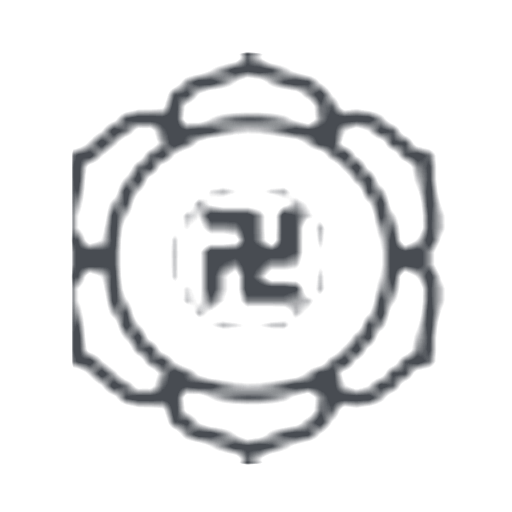
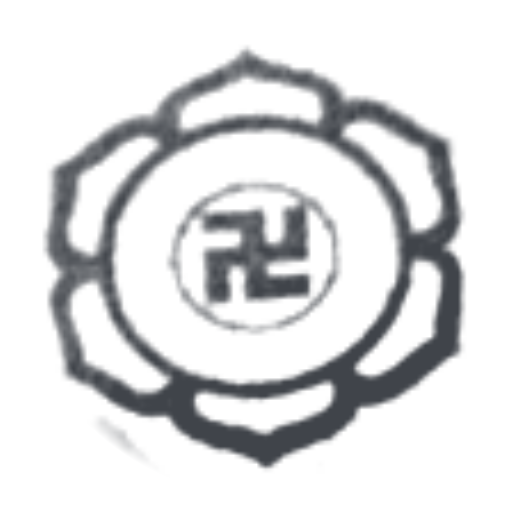
feat: 온전한 육엽 연꽃잎 로고 교체, 탑돌이 매 바퀴마다 정중한 반배(3.8초) 및 마무리 회향 반배 연출 구현

Changed region(s): [[0.0625, 0.0938, 0.9062, 0.9375], [0.3125, 0.3438, 0.6875, 0.6562]]

diff --git a/temple3d.js b/temple3d.js
@@ -49,7 +49,10 @@ class Bomunsa3D {
     this.pagodaIsRunning = false;
     this.isPagodaBowing = false;
     this.pagodaBowElapsed = 0;
-    this.pagodaBowDuration = 2.4;
+    this.pagodaBowDuration = 3.8; // [요청 반영: 반배 타임을 3.8초로 넉넉히 늘려 경건한 반배 동작이 확실히 눈에 띄도록 설정]
+    this.pagodaStep = 0;
+    this.pagodaNextStep = 1;
+    this.pagodaBowIsFinal = false;
     this.footprints = [];
     this.lastFootprintDist = 0;
     this.footprintStepSide = 1;
@@ -2214,24 +2217,20 @@ class Bomunsa3D {
     }
   }
 
-  startPagodaSpin() {
-    this.currentMode = 'pagoda_spin';
-    this.pagodaAngle = Math.PI / 2; // 남쪽 (z + 6.2) 황금 연꽃 표식
-    this.pagodaTotalAngle = 0;
-    this.pagodaRoundsCompleted = 0;
-    this.clearFootprints();
-
-    // [요청 반영: 1단계 - 탑돌이 시작 전 탑을 향해 정성껏 합장 반배 올리기]
+  // [사용자 요청 반영: 한 바퀴 돌 때마다 남쪽에서 멈춰 탑을 향해 반배, 다 돌고 나서 마무리 반배]
+  triggerPagodaBow(roundTitle, roundDesc, nextStep, isFinal = false) {
     this.isPagodaBowing = true;
     this.pagodaBowElapsed = 0;
     this.pagodaIsRunning = false;
+    this.pagodaNextStep = nextStep;
+    this.pagodaBowIsFinal = isFinal;
 
-    // 남쪽 출발 표식에 캐릭터 위치 및 탑(북쪽)을 마주보도록 정렬
+    // 남쪽 출발 표식에 캐릭터 위치 및 묘보탑(북쪽)을 정면으로 마주보도록 정렬
     const px = this.pagodaPos.x;
     const pz = this.pagodaPos.z + this.pagodaRadius;
     this.playerPos.set(px, 0, pz);
     this.characterGroup.position.copy(this.playerPos);
-    this.characterGroup.rotation.y = Math.PI; // 묘보탑(북쪽)을 정면으로 경건하게 마주봄
+    this.characterGroup.rotation.y = Math.PI; // 묘보탑(북쪽) 정면 마주봄
 
     // 사지 초기 정자세 복원
     if (this.charLimbs) {
@@ -2245,14 +2244,31 @@ class Bomunsa3D {
       this.charLimbs.gassho.rotation.set(0, 0, 0);
     }
 
-    if (window.templeAudio) window.templeAudio.playSingleMoktak();
+    if (isFinal) {
+      if (window.templeAudio) window.templeAudio.playSingingBowl(216, 9.0);
+    } else {
+      if (window.templeAudio) window.templeAudio.playSingleMoktak();
+    }
+
     if (window.onPagodaRoundUpdate) {
-      window.onPagodaRoundUpdate('합장 반배(半拜) 올리기 🙏', '정성을 다해 탑을 향해 반배를 올리며 탑돌이를 시작합니다.', false, true);
+      window.onPagodaRoundUpdate(roundTitle, roundDesc, false, true);
     }
   }
 
+  startPagodaSpin() {
+    this.currentMode = 'pagoda_spin';
+    this.pagodaAngle = Math.PI / 2; // 남쪽 (z + 6.2) 황금 연꽃 표식
+    this.pagodaTotalAngle = 0;
+    this.pagodaRoundsCompleted = 0;
+    this.pagodaStep = 0;
+    this.clearFootprints();
+
+    // 1단계: 탑돌이 시작 전 탑을 향해 정성껏 합장 반배 올리기
+    this.triggerPagodaBow('탑돌이 시작 반배 🙏', '몸과 마음을 경건히 모아 탑을 향해 합장 반배를 올립니다.', 1, false);
+  }
+
   togglePagodaSpin() {
-    if (this.currentMode !== 'pagoda_spin' || this.pagodaRoundsCompleted >= 3) {
+    if (this.currentMode !== 'pagoda_spin' || this.pagodaStep >= 7) {
       this.startPagodaSpin();
       return true;
     }
@@ -2442,43 +2458,71 @@ class Bomunsa3D {
         this.pagodaBowElapsed += delta;
         const bowT = Math.min(1.0, this.pagodaBowElapsed / this.pagodaBowDuration);
 
-        // [요청 반영: 탑돌이 시작 전 경건한 합장 반배 이징 (0 -> 1 -> 0)]
+        // [요청 반영: 반배 타임을 3.8초로 넉넉히 늘려 눈에 띄게 경건한 합장 반배 연출 (숙임 -> 멈춤 -> 일어섬)]
         let ease = 0;
-        if (bowT < 0.42) {
-          const t = bowT / 0.42;
+        if (bowT < 0.38) {
+          const t = bowT / 0.38;
           ease = t * t * (3 - 2 * t);
-        } else if (bowT < 0.62) {
+        } else if (bowT < 0.65) {
           ease = 1.0;
         } else {
-          const t = (bowT - 0.62) / 0.38;
-          ease = 1 - t * t * (3 - 2 * t);
+          const t = (bowT - 0.65) / 0.35;
+          ease = 1.0 - t * t * (3 - 2 * t);
         }
 
-        const bowAngle = ease * 0.52; // 약 30도 정중한 반배
+        const bowAngle = ease * 0.58; // 약 33도 정중하고 깊은 합장 반배
         this.charLimbs.body.rotation.x = bowAngle;
-        this.charLimbs.head.rotation.x = ease * 0.38;
+        this.charLimbs.head.rotation.x = ease * 0.40;
         this.charLimbs.gassho.rotation.x = bowAngle;
-        this.charLimbs.gassho.position.y = 0.85 - ease * 0.08;
+        this.charLimbs.gassho.position.y = 0.85 - ease * 0.09;
 
         // 카메라: 남쪽 황금 연꽃 디딤돌에서 탑을 향해 반배하는 캐릭터가 온전히 다 보이도록 정면 구도
         const px = this.pagodaPos.x;
         const pz = this.pagodaPos.z + this.pagodaRadius;
-        const camPos = new THREE.Vector3(px, 2.0, pz + 4.6);
+        const camPos = new THREE.Vector3(px, 1.95, pz + 4.2);
         this.camera.position.lerp(camPos, 0.08);
-        this.camera.lookAt(new THREE.Vector3(px, 1.15, pz - 1.2));
+        this.camera.lookAt(new THREE.Vector3(px, 1.25, pz - 1.5));
 
         if (bowT >= 1.0) {
-          // 반배 완료! 이제 시계 방향(우요삼잡) 탑돌이 걷기 본격 시작
           this.isPagodaBowing = false;
           this.charLimbs.body.rotation.x = 0;
           this.charLimbs.head.rotation.x = 0;
           this.charLimbs.gassho.rotation.x = 0;
           this.charLimbs.gassho.position.set(0, 0.85, 0.22);
 
-          this.pagodaIsRunning = true;
-          if (window.templeAudio) window.templeAudio.playSingleMoktak();
-          if (window.onPagodaRoundUpdate) {
-            window.onPagodaRoundUpdate('첫 번째 바퀴', '지난 모든 번뇌와 허물을 비워냅니다. 🙏', false, false);
+          const next = this.pagodaNextStep;
+          if (next === 1) {
+            // 1바퀴 걷기 시작
+            this.pagodaStep = 1;
+            this.pagodaIsRunning = true;
+            if (window.templeAudio) window.templeAudio.playSingleMoktak();
+            if (window.onPagodaRoundUpdate) {
+              window.onPagodaRoundUpdate('첫 번째 바퀴', '지난 모든 번뇌와 허물을 비워냅니다. 🙏', false, false);
+            }
+          } else if (next === 3) {
+            // 2바퀴 걷기 시작
+            this.pagodaStep = 3;
+            this.pagodaIsRunning = true;
+            if (window.templeAudio) window.templeAudio.playSingleMoktak();
+            if (window.onPagodaRoundUpdate) {
+              window.onPagodaRoundUpdate('두 번째 바퀴', '나와 이웃을 위해 자비로운 마음을 품습니다. 🙏', false, false);
+            }
+          } else if (next === 5) {
+            // 3바퀴 걷기 시작
+            this.pagodaStep = 5;
+            this.pagodaIsRunning = true;
+            if (window.templeAudio) window.templeAudio.playSingleMoktak();
+            if (window.onPagodaRoundUpdate) {
+              window.onPagodaRoundUpdate('세 번째 바퀴', '모든 생명이 평안하기를 간절히 발원합니다. 🙏', false, false);
+            }
+          } else if (next === 7) {
+            // 3바퀴 완료 후 마지막 마무리 반배까지 마침 -> 완전 회향!
+            this.pagodaStep = 7;
+            this.pagodaIsRunning = false;
+            this.characterGroup.rotation.y = Math.PI;
+            if (window.onPagodaRoundUpdate) {
+              window.onPagodaRoundUpdate('탑돌이 원만 회향 🙏', '3바퀴 탑돌이를 원만히 마쳤습니다. 간절한 모든 서원이 성취되기를 축원합니다. 🙏', true, false);
+            }
           }
         }
       }
@@ -2520,38 +2564,21 @@ class Bomunsa3D {
           if (window.templeAudio) window.templeAudio.playFootstep(true);
         }
 
-        const currentRounds = Math.floor(this.pagodaTotalAngle / (Math.PI * 2));
-        if (currentRounds !== this.pagodaRoundsCompleted) {
-          this.pagodaRoundsCompleted = currentRounds;
-          if (this.pagodaRoundsCompleted === 1) {
-            if (window.templeAudio) window.templeAudio.playSingleMoktak();
-            if (window.onPagodaRoundUpdate) {
-              window.onPagodaRoundUpdate('두 번째 바퀴', '나와 이웃을 위해 자비로운 마음을 품습니다. 🙏', false, false);
-            }
-          } else if (this.pagodaRoundsCompleted === 2) {
-            if (window.templeAudio) window.templeAudio.playSingleMoktak();
-            if (window.onPagodaRoundUpdate) {
-              window.onPagodaRoundUpdate('세 번째 바퀴', '모든 생명이 평안하기를 간절히 발원합니다. 🙏', false, false);
-            }
-          } else if (this.pagodaRoundsCompleted >= 3) {
-            this.pagodaIsRunning = false;
-            this.charLimbs.leftLeg.rotation.x = 0;
-            this.charLimbs.rightLeg.rotation.x = 0;
-            this.charLimbs.body.position.y = 0.85;
-            this.charLimbs.head.position.y = 1.38;
-            this.charLimbs.gassho.position.set(0, 0.85, 0.22);
-            this.charLimbs.body.rotation.set(0, 0, 0);
-            this.charLimbs.head.rotation.set(0, 0, 0);
-            this.charLimbs.gassho.rotation.set(0, 0, 0);
-
-            // 제자리 도착 후 탑을 정면으로 마주봄
-            this.characterGroup.rotation.y = Math.PI;
-
-            if (window.templeAudio) window.templeAudio.playSingingBowl(216, 9.0);
-            if (window.onPagodaRoundUpdate) {
-              window.onPagodaRoundUpdate('탑돌이 원만 회향 🙏', '탑을 돌며 세운 모든 서원이 원만히 성취되기를 축원합니다. 🙏', true, false);
-            }
-          }
+        // [사용자 요청 반영: 한 바퀴 돌 때마다 남쪽 출발점에 멈춰 반배, 3바퀴 돌고 마무리 반배]
+        if (this.pagodaStep === 1 && this.pagodaTotalAngle >= Math.PI * 2) {
+          this.pagodaTotalAngle = Math.PI * 2;
+          this.pagodaAngle = Math.PI / 2;
+          this.triggerPagodaBow('첫 번째 바퀴 회향 반배 🙏', '지난 모든 번뇌와 허물을 비워내며 탑을 향해 반배를 올립니다.', 3, false);
+        }
+        else if (this.pagodaStep === 3 && this.pagodaTotalAngle >= Math.PI * 4) {
+          this.pagodaTotalAngle = Math.PI * 4;
+          this.pagodaAngle = Math.PI / 2;
+          this.triggerPagodaBow('두 번째 바퀴 회향 반배 🙏', '자비로운 마음을 품으며 탑을 향해 반배를 올립니다.', 5, false);
+        }
+        else if (this.pagodaStep === 5 && this.pagodaTotalAngle >= Math.PI * 6) {
+          this.pagodaTotalAngle = Math.PI * 6;
+          this.pagodaAngle = Math.PI / 2;
+          this.triggerPagodaBow('탑돌이 마무리 회향 반배 🙏', '간절한 서원이 원만히 성취되기를 축원하며 마지막 반배를 올립니다.', 7, true);
         }
 
         // [요청 반영: 캐릭터 시야 100% 확보 - 3인칭 숄더 팔로우 카메라 앵글]
